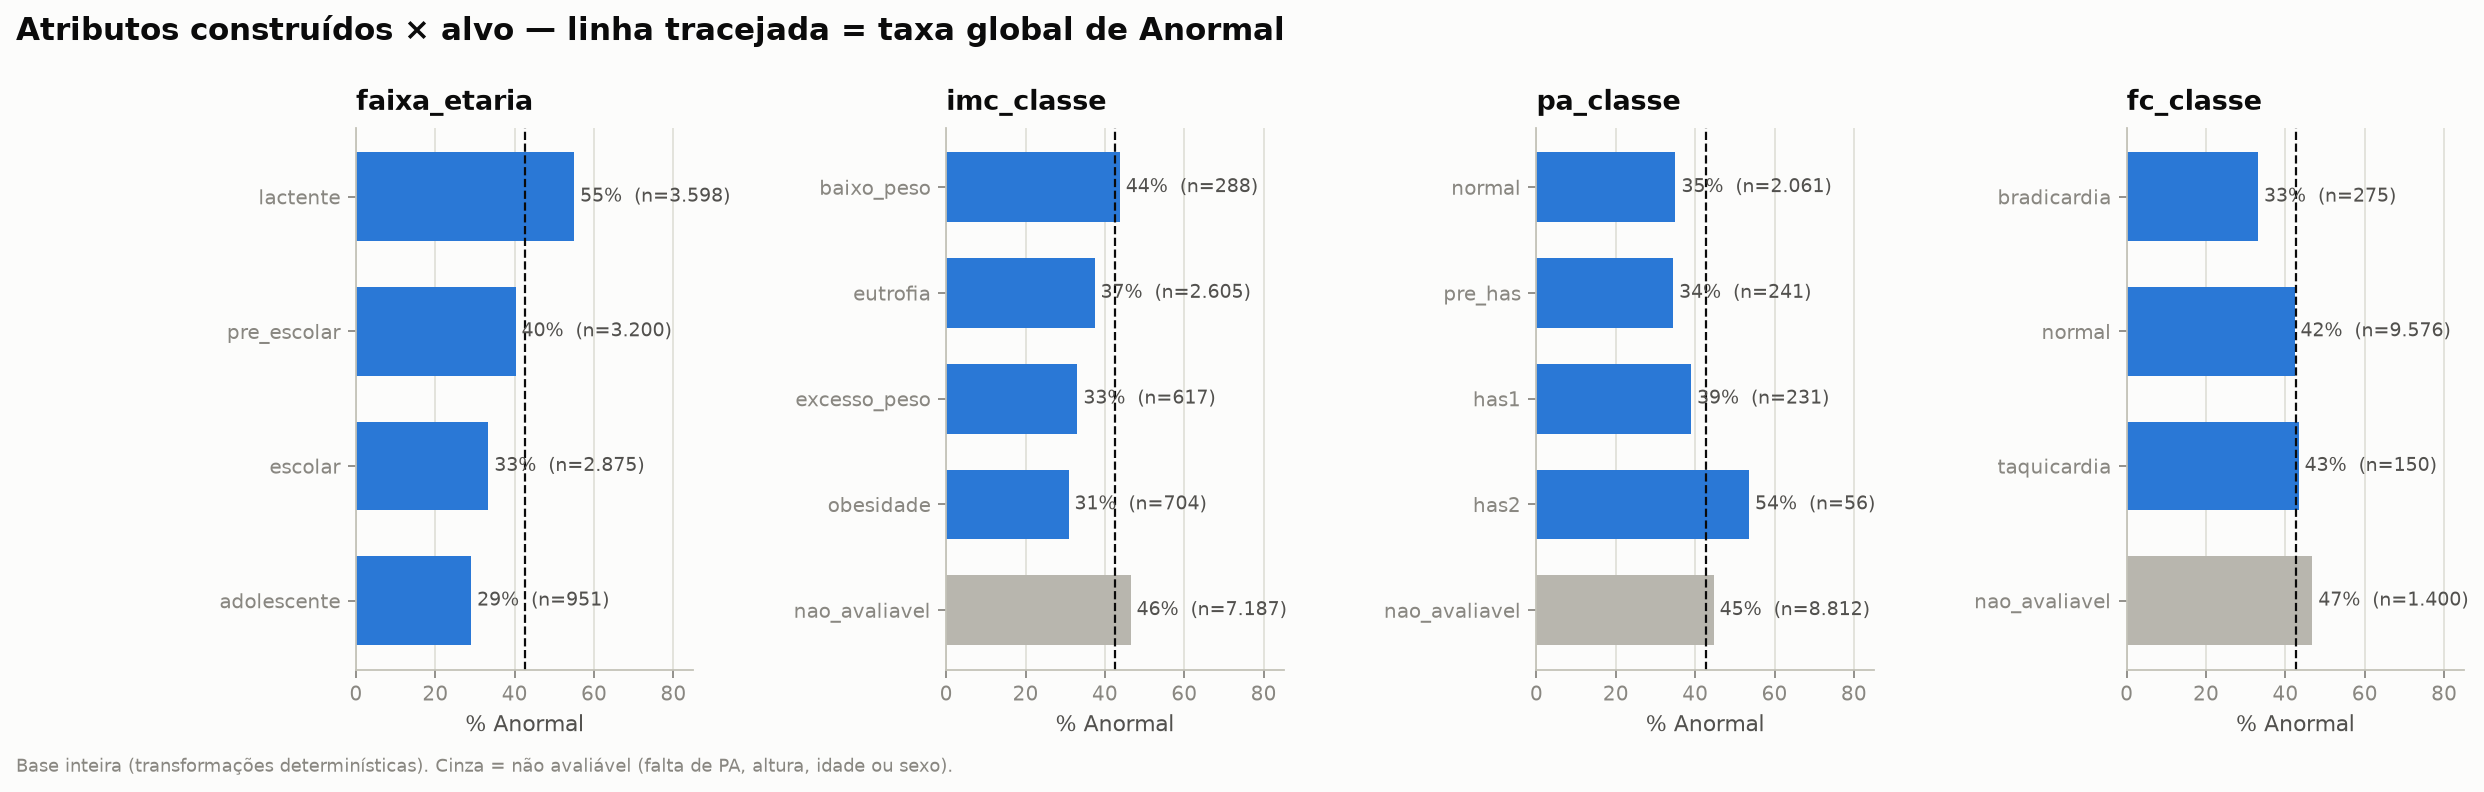
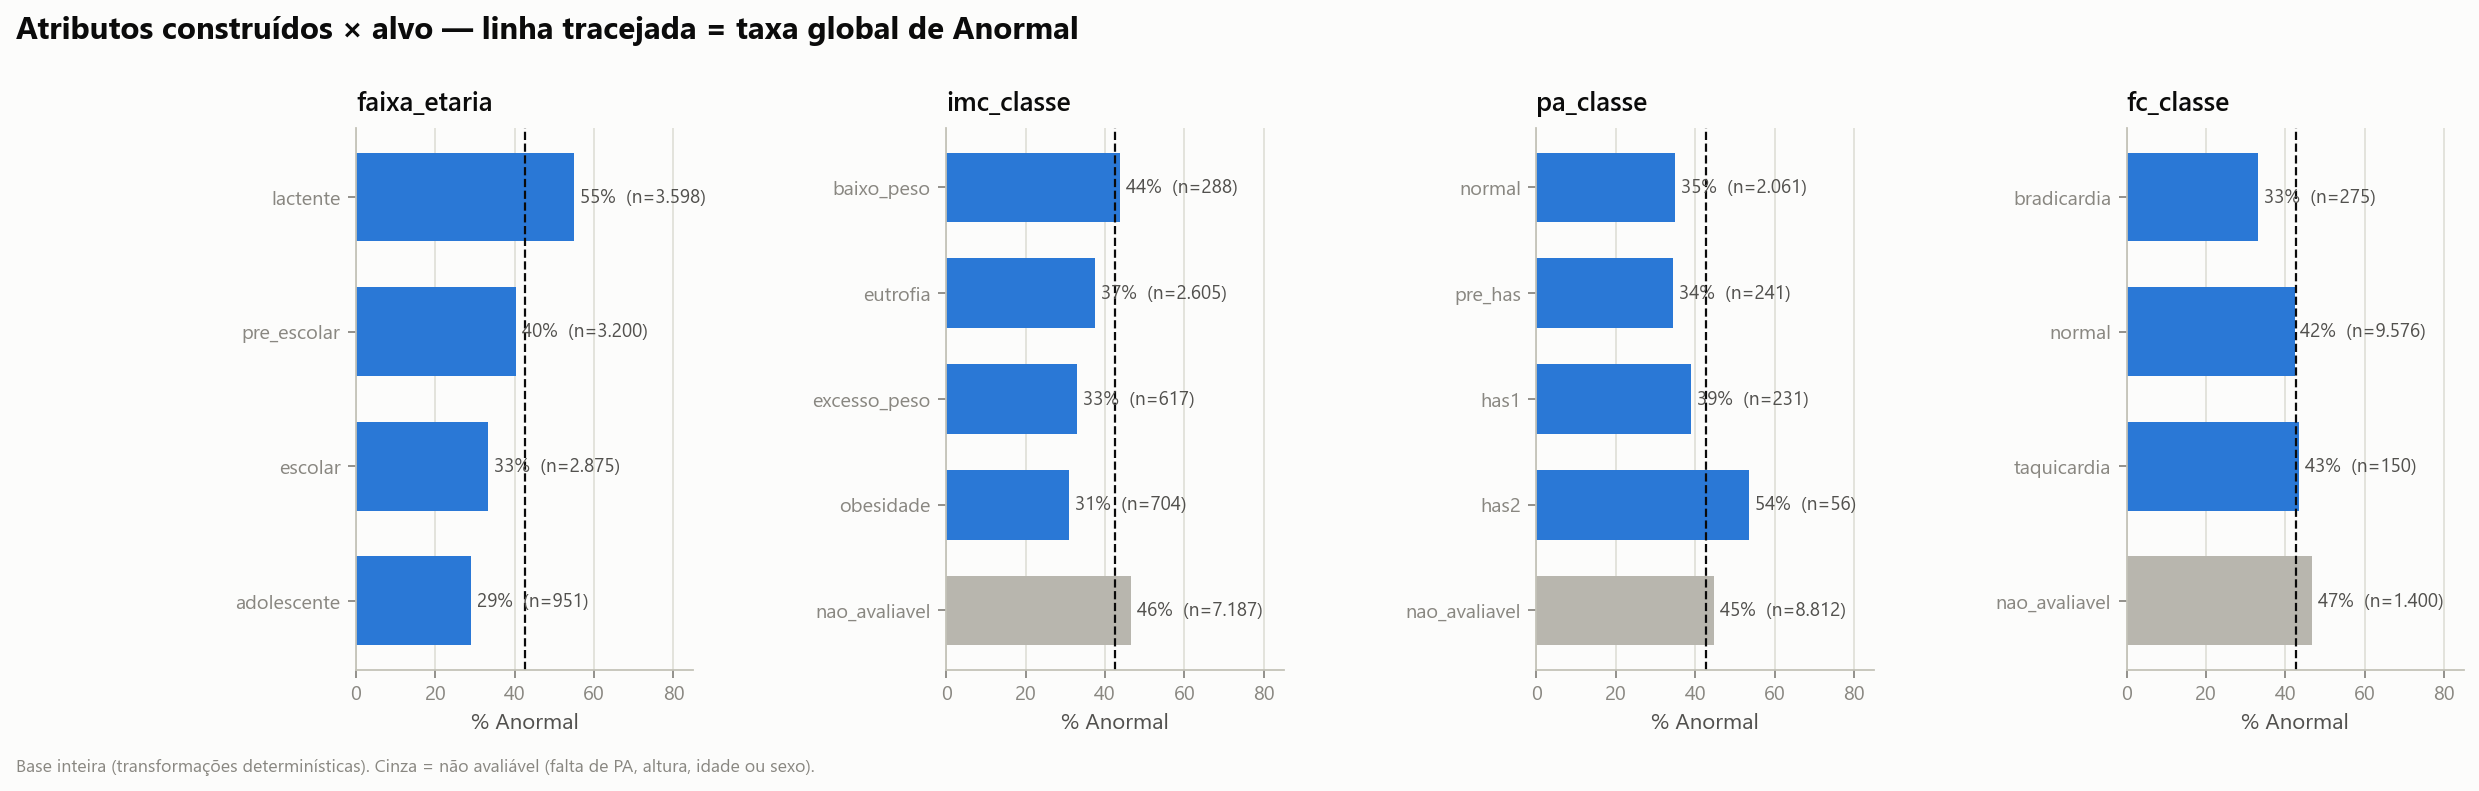
Resultados Finais e colocando matriz de confusão no paper

diff --git a/scripts/07_figuras_artigo.py b/scripts/07_figuras_artigo.py
@@ -143,6 +143,8 @@ def fig_resultados():
     fig, (a, b) = plt.subplots(2, 1, figsize=(3.45, 3.9), gridspec_kw={"hspace": 0.62})
     painel_auc(a)
     painel_importancia(b)
+    for ax in (a, b):  # vírgula decimal, como no texto
+        ax.xaxis.set_major_formatter(lambda x, _: f"{x:g}".replace(".", ","))
     destino = os.path.join(OUT, "fig_resultados.pdf")
     fig.savefig(destino, bbox_inches="tight", pad_inches=0.02)
     fig.savefig(destino.replace(".pdf", ".png"), bbox_inches="tight", pad_inches=0.02, dpi=200)

diff --git a/scripts/clinico.py b/scripts/clinico.py
@@ -99,7 +99,7 @@ def _limiares_pa(sexo, idade, coluna_altura):
     t = _tabela("nhbpep_2004_pa.csv")
     t = t[(t.sexo == sexo) & (t.idade_anos == idade) & (t.percentil_altura == coluna_altura)]
     t = t.set_index("percentil_pa")
-    return tuple((int(t.pas[p]), int(t.pad[p])) for p in (90, 95, 99))
+    return tuple((int(t["pas"][p]), int(t["pad"][p])) for p in (90, 95, 99))  # t.pad é método do pandas
 
 
 def classe_pa(sexo, idade_anos, pas, pad, percentil_altura=None):

diff --git a/README.md b/README.md
@@ -1,0 +1,80 @@
+# Triagem de cardiopatia pediátrica antes da ausculta
+
+Trabalho da disciplina de Mineração de Dados (Instituto de Informática, UFG), Grupo 1:
+João Guilherme Pires de Andrade, Gustavo Henrique Barros, Gustavo Almeida Leite e
+Felipe Brito Albernaz.
+
+**Pergunta.** Quanto do diagnóstico de patologia cardíaca em crianças e adolescentes pode ser
+antecipado com as informações disponíveis *antes* da ausculta do especialista? Esse desempenho
+se mantém ao longo do tempo?
+
+**Dados.** A base UCMF, do Real Hospital Português (Recife): 12.873 atendimentos de 0 a 19 anos,
+entre 2003 e 2010. Depois da limpeza e da exclusão dos encaminhados com cardiopatia já
+estabelecida, a população de estudo tem 10.311 registros, com 39,6% de Anormais.
+
+## Principais resultados (conjunto de teste)
+
+Os valores são da AUC-ROC do *gradient boosting*, com IC 95% por bootstrap:
+
+| Informação disponível | Split aleatório | Split temporal (treino ≤ 2008) |
+|---|---|---|
+| Só idade (regressão logística) | 0,63 | 0,63 |
+| E0: encaminhamento | 0,75 | 0,73 |
+| E1: + exame sem estetoscópio | 0,78 [0,76; 0,80] | 0,77 [0,75; 0,78] |
+| E2: + ausculta (teto; vazamento) | 0,95 | 0,95 |
+
+No ponto de corte de triagem, priorizar 60% da fila captura 81% das cardiopatias. As hipóteses e
+o protocolo foram registrados antes do teste, em [docs/proposta.md](docs/proposta.md). Os desvios
+do protocolo estão na seção 8 desse documento.
+
+## Estrutura
+
+| Pasta | Conteúdo |
+|---|---|
+| `UCMF_raw.csv` | Base original |
+| `data/processed/` | Base limpa (`UCMF_clean.csv`) e atributos clínicos (`UCMF_features.csv`) |
+| `data/referencias/oms/`, `scripts/referencias/` | Tabelas clínicas: OMS, CDC, NHBPEP e faixas de FC |
+| `scripts/` | Pipeline numerada (abaixo) e módulos auxiliares (`clinico.py`, `transformadores.py`, ...) |
+| `output/` | Tabelas e figuras geradas. Os resultados do artigo estão em `output/modelagem/` |
+| `paper/` | Artigo em LaTeX (IEEEtran). Veja `paper/README.md` |
+| `docs/proposta.md` | Pergunta, hipóteses e protocolo pré-registrados |
+| `tests/` | Testes das funções clínicas |
+
+## Como reproduzir
+
+Requer Python 3.11 ou mais recente. Todos os comandos são executados na raiz do repositório.
+
+```bash
+pip install -r requirements.txt
+
+# Análise exploratória e pré-processamento (A1)
+python scripts/01_analise_univariada.py
+python scripts/02_diagnostico_qualidade.py
+python scripts/02_limpeza.py            # -> data/processed/UCMF_clean.csv
+python scripts/04_transformacoes.py     # -> data/processed/UCMF_features.csv
+python scripts/03_analise_bivariada.py
+
+# Modelagem (A2): duas fases, como no protocolo
+python scripts/08_modelagem.py --fase cv      # só o treino: grade e pontos de corte
+python scripts/08_modelagem.py --fase teste   # avalia no teste uma única vez
+python scripts/07_figuras_artigo.py           # -> paper/figures/
+```
+
+Observações:
+
+- A fase `teste` se recusa a rodar se `scripts/08_modelagem.py` tiver alterações não
+  commitadas. Ela também confere se os hiperparâmetros e os pontos de corte coincidem com os
+  fixados na fase `cv` (`output/modelagem/cv_fixados.csv`).
+- Cada fase leva cerca de 15 minutos em 4 núcleos.
+- Todas as etapas aleatórias usam `random_state = 42`.
+- As tabelas da OMS já estão no repositório. `scripts/00_baixar_referencias_oms.py` só é
+  necessário para baixá-las de novo.
+- `scripts/05_figuras_relatorio.py` e `06_relatorio_docx.py` geram o relatório da A1. O segundo
+  requer `python-docx`.
+- Testes: `python -m pytest tests`.
+
+## Uso de IA generativa
+
+O código e a primeira versão do texto foram escritos com o apoio do Claude (Anthropic), por meio
+do Claude Code. A pergunta, as hipóteses, as decisões metodológicas e a revisão foram do grupo.
+Os detalhes estão na seção final do artigo.
